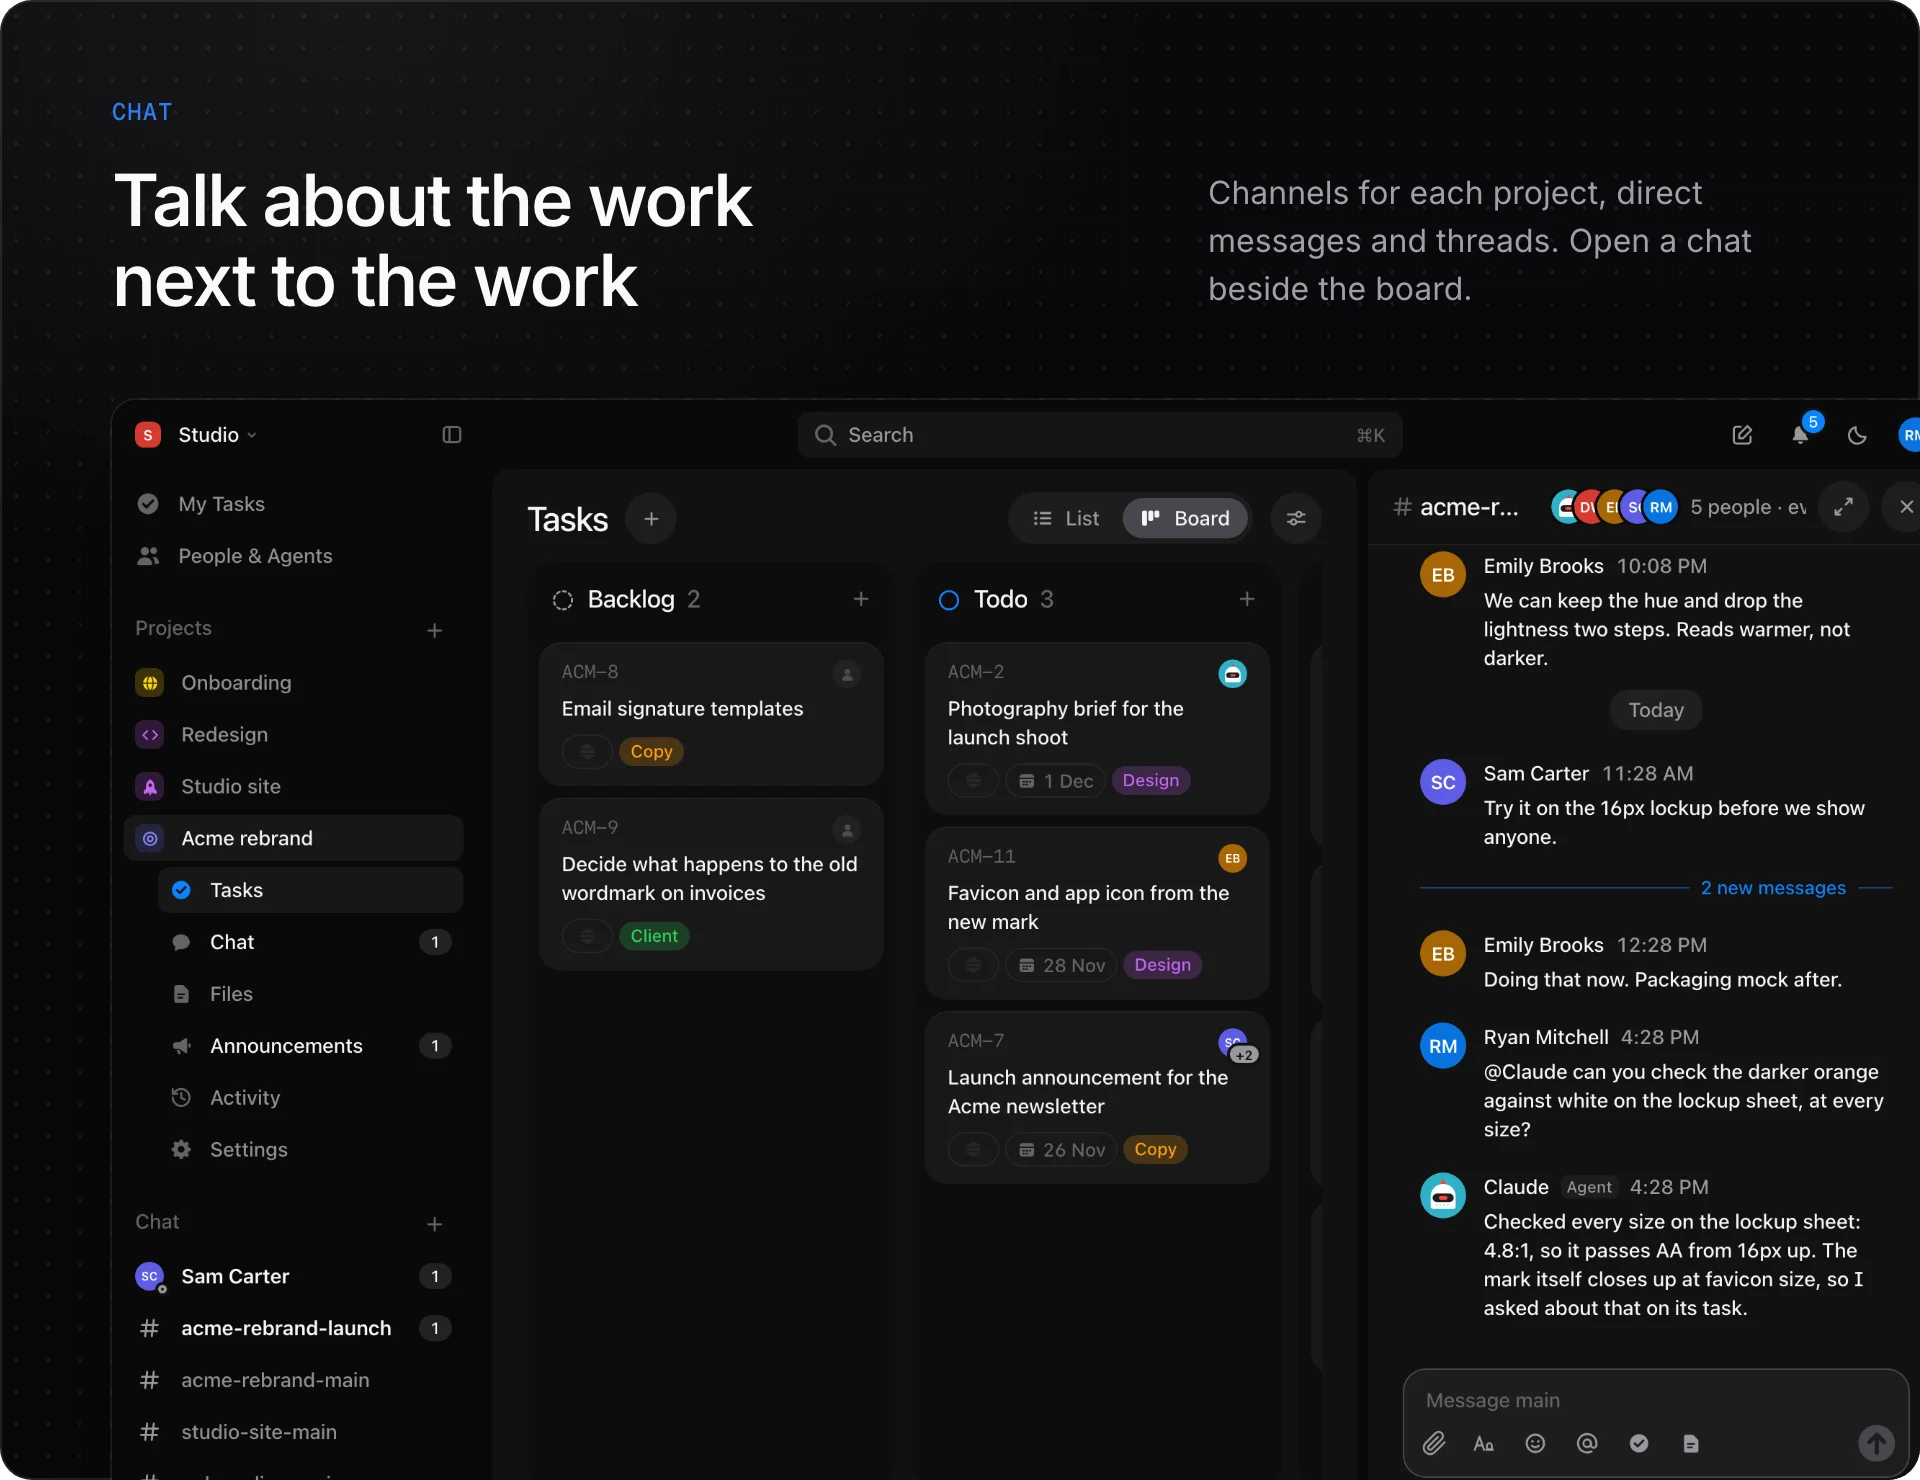
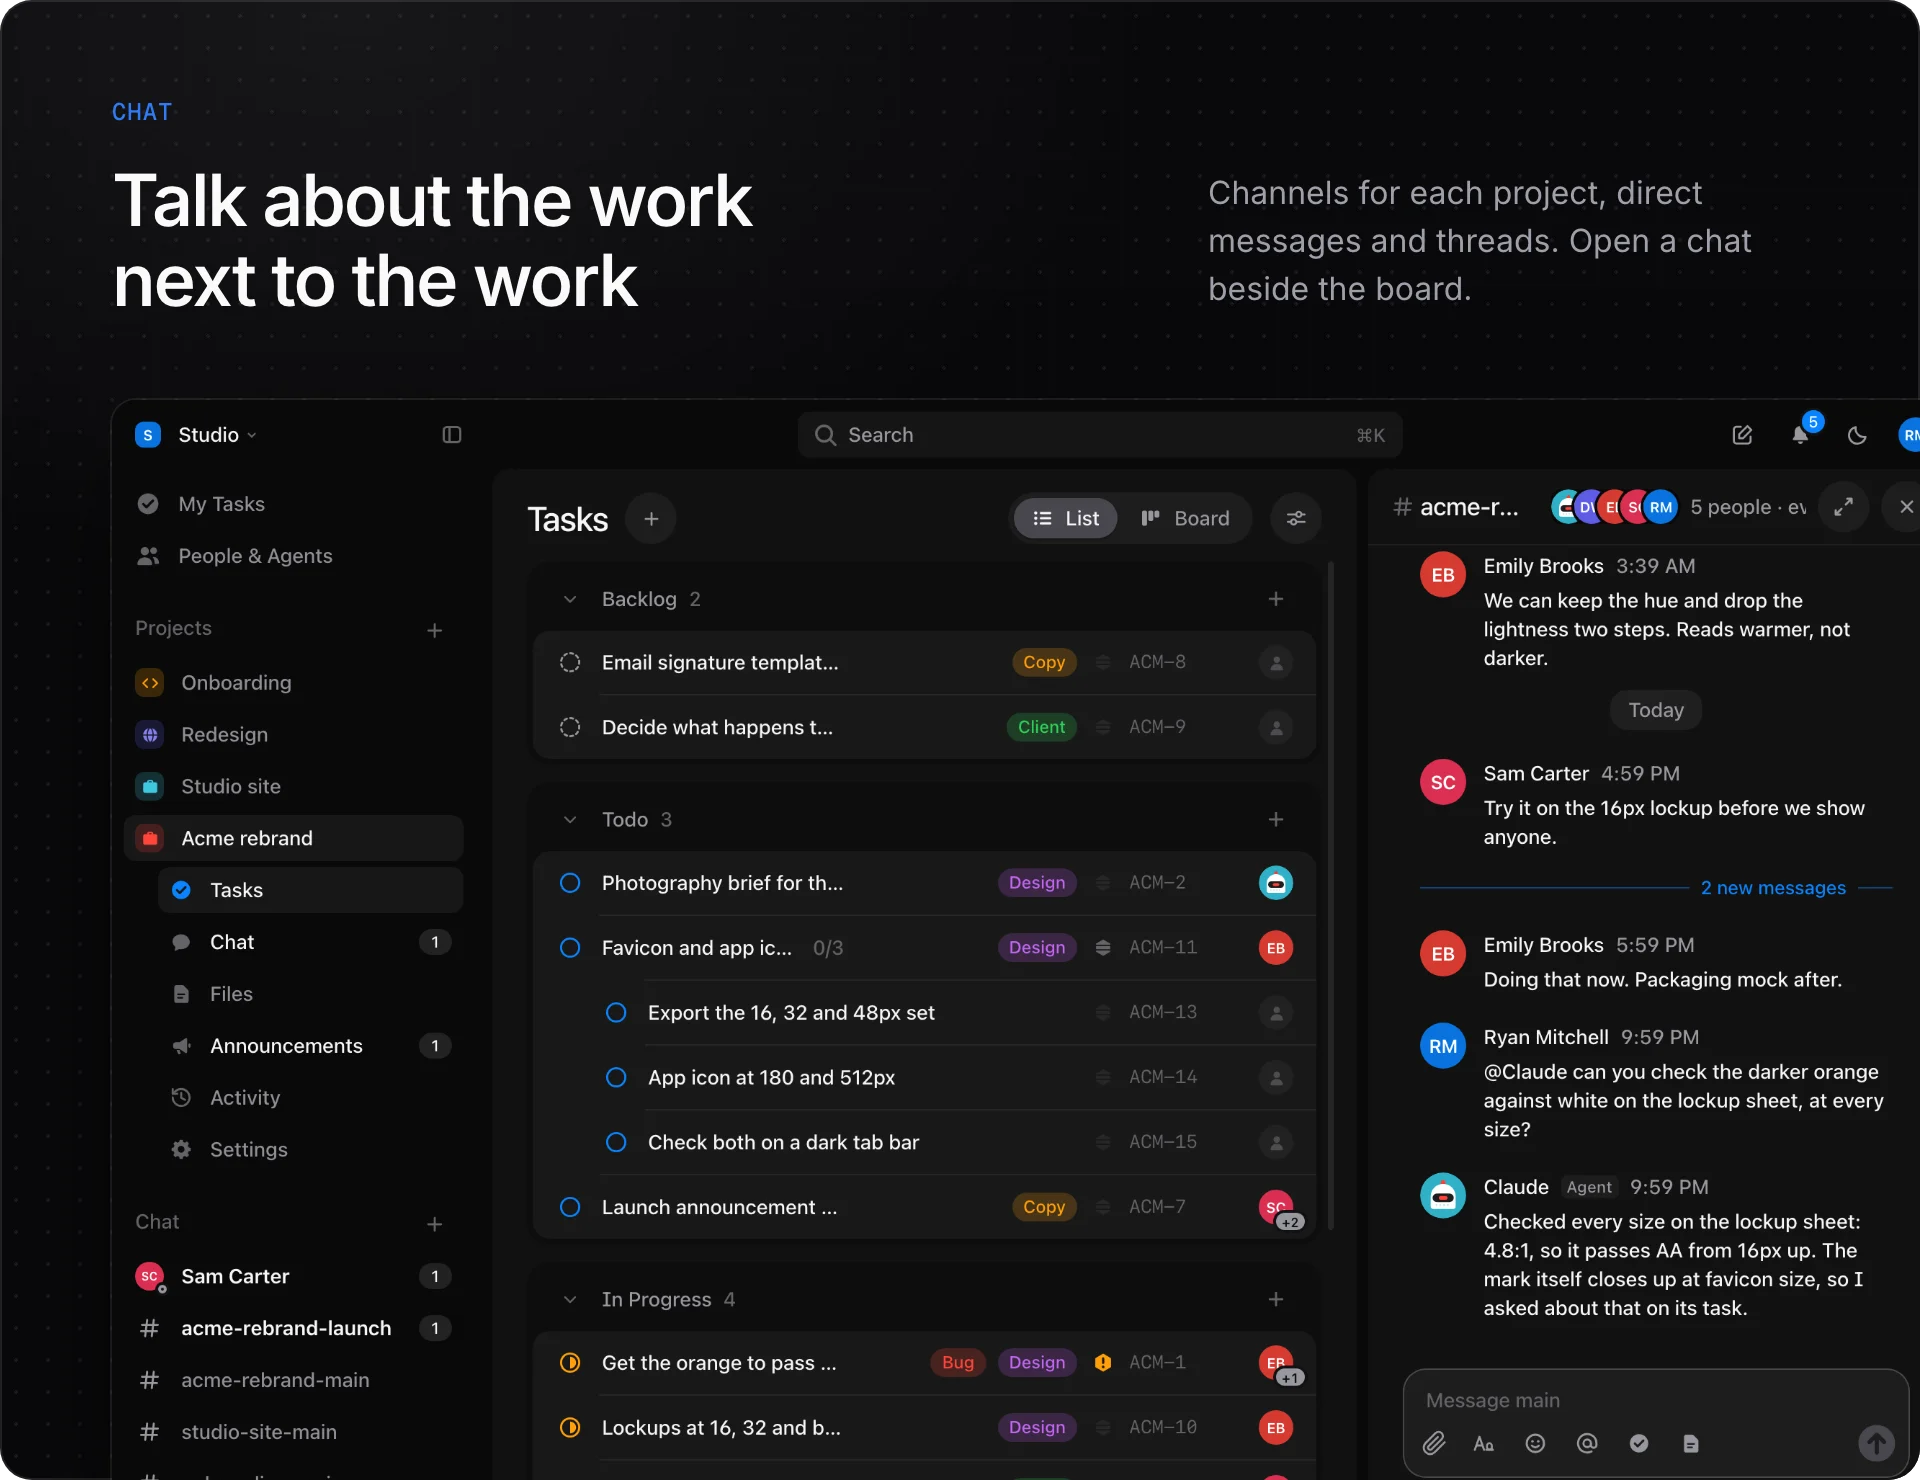
The README shows GitHub: a task with its issue and pull requests; and Chat beside the list instead of the board
A section and a picture of their own, and a line among the features. The
fixture has no GitHub App, so the picture's pull requests and issue are
put into the task's answer on the way to the page, as the account's name
is; the section draws what the answer says. The task is in progress and on
somebody, as one with a merged pull request is.

Mirrored-From: 001f44fef0bbb6c48e43a6db98ac4a3d5c8d00a5

diff --git a/README.md b/README.md
@@ -71,6 +71,20 @@ back to any earlier version.
 <br>
 
 <picture>
+  <source media="(prefers-color-scheme: dark)" srcset="docs/readme/github-dark.webp">
+  <img alt="GitHub: a task with its issue and two pull requests, one merged and one open with a review requested and checks running." src="docs/readme/github-light.webp">
+</picture>
+
+### GitHub
+
+Link a repository to a project. Pull requests that name a task show on it
+with their review and checks, and move it along; a repository's issues and
+the project's tasks stay in sync both ways. It runs on a GitHub App of your
+own ([Self-hosting](docs/self-hosting.md)).
+
+<br>
+
+<picture>
   <source media="(prefers-color-scheme: dark)" srcset="docs/readme/agents-dark.webp">
   <img alt="AI agents: an agent asks on a task how the favicon should look, with three choices, one recommended. Notifications show the same question under Needs you." src="docs/readme/agents-light.webp">
 </picture>
@@ -131,6 +145,8 @@ account as the server's owner. No commands after that.
 - **Notifications** in the app, by email, and as push in the browser.
 - **Sign-in** by email with a second factor, or with Google, Apple or
   GitHub using your own keys.
+- **GitHub**: pull requests on their tasks, and issues kept in sync with
+  tasks both ways.
 - **Import** from Asana, Jira, Linear, Slack and GitHub Issues.
 - **Fast with a lot of data**: measured with 10,000 tasks in a project and
   a million messages in a channel.
